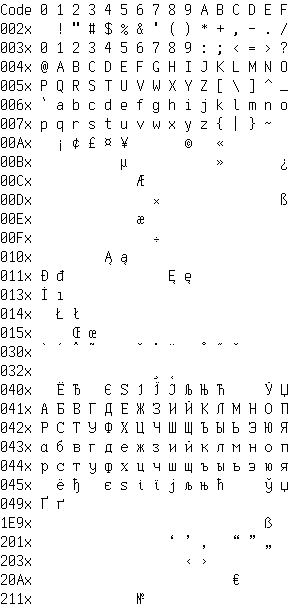
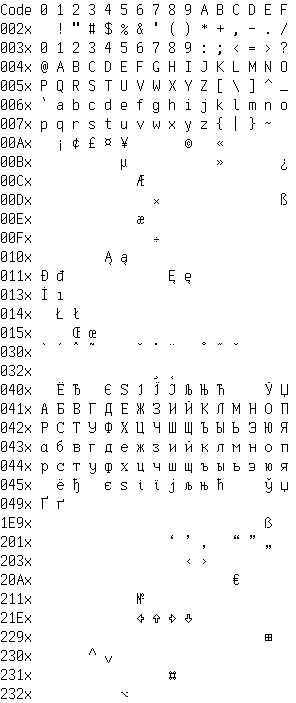
New codepoints

diff --git a/export.js b/export.js
@@ -101,8 +101,8 @@ writeFileSync('./Example.png', getImage([
     'Pijamalı hasta yağız şoföire çabucak güvendi',
     'El veloz murciélago hindú comía feliz cardillo y kiwi.',
     'La cigüeña tocaba el saxofón detrás del palenque de paja.',
-    "Voix ambiguë d'un cœur qui au zéphyr préfère les jattes de kiwis.",
-    "Árvíztűrő tükörfúrógép",
+    'Voix ambiguë d’un cœur qui au zéphyr préfère les jattes de kiwis.',
+    'Árvíztűrő tükörfúrógép',
     'ŔÁÂĂÄĹĆÇČÉĘËĚÍÎĎĐŃŇÓÔŐÖŘŮÚŰÜÝŢẞ',
     'ŕáâăäĺćçčéęëěíîďđńňóôőöřůúűüýţß',
     'ЂЃѓЉЊЌЋЏђљњќћџЎўЈҐЁЄЇІіґёєјЅѕї',
@@ -110,14 +110,15 @@ writeFileSync('./Example.png', getImage([
     'ÑÒÕÀÃÅÈÊÌÏÙÛĞİŸŚŤŽŹĽŻŠĄŞŁŒÆ',
     'ñòõàãåèêìïùûğıÿśťžźľżšąşłœæ',
     '«French», ‹French›, “English”, ‘English’, „German“, ‚German‘',
+    'Cop Сор, Box Вох, Check Сплеск, Cocoa Сосна,',
+    '⌃⇧⌥⌘⊞ ⇦⇧⇨⇩⌃⌄',
     // TODO:
     // ʼ ´ ˝  –—  
-    // ⇧⌥⌃⌘
     // '…†‡‰.•™ˇ˘',
     // '¦§¨¬®°±˛¶·¸',
     // '˙ƒˆ˜ª¯º¼½¾',
     // 'ÐØÞ ðøþ',
-    "No ambiguity in the characters 'Il1', 'OoОо0', 'CcСс', etc.",
+    'No ambiguity in the characters ‘Il1’, ‘OoОо0’, ‘CcСс’, etc.',
     'Съешь же ещё этих мягких французских булок, да выпей чаю',
     'Вкъщи не яж сьомга с фиде без ракийка и хапка люта чушчица!',
     'У рудога вераб’я ў сховішчы пад фатэлем ляжаць нейкія гаючыя зёлкі',

diff --git a/rle-decode.js b/rle-decode.js
@@ -64,5 +64,5 @@ export default function (/** @type {string} */ base64) {
         row.push(b >= 128);
         b = read();
     }
-    return res;// No ambiguity in the characters 'Il1', 'OoОо0', 'EeЕе', etc.
+    return res;
 }
